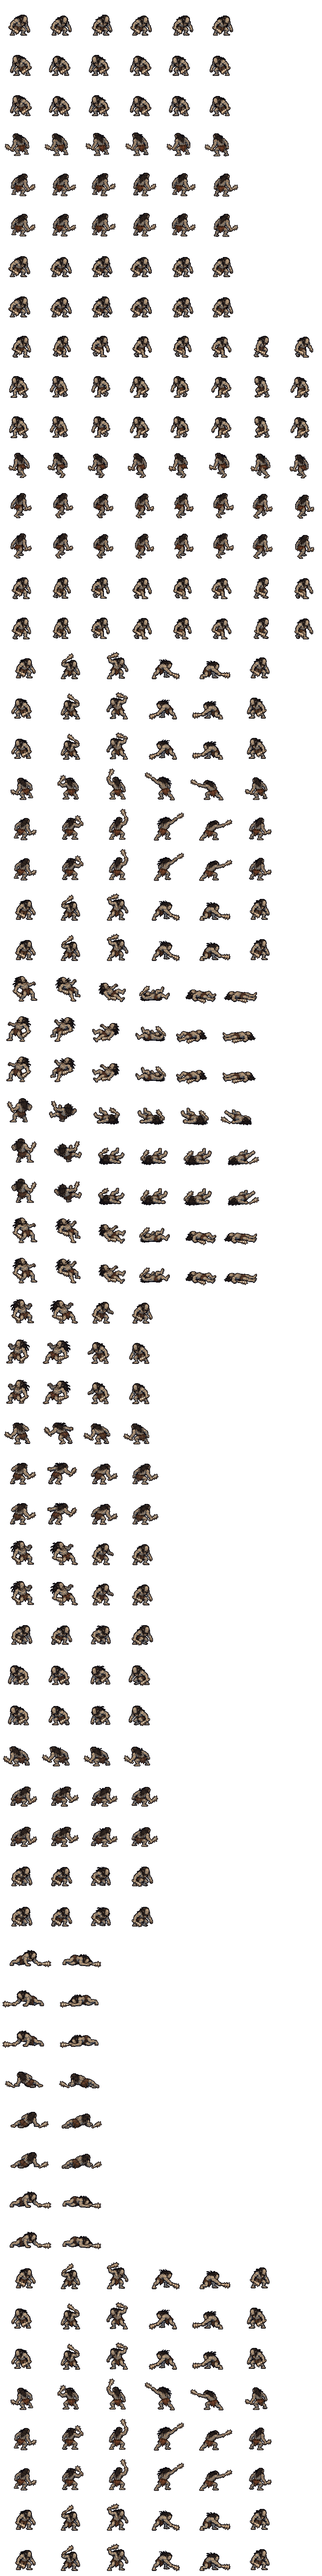
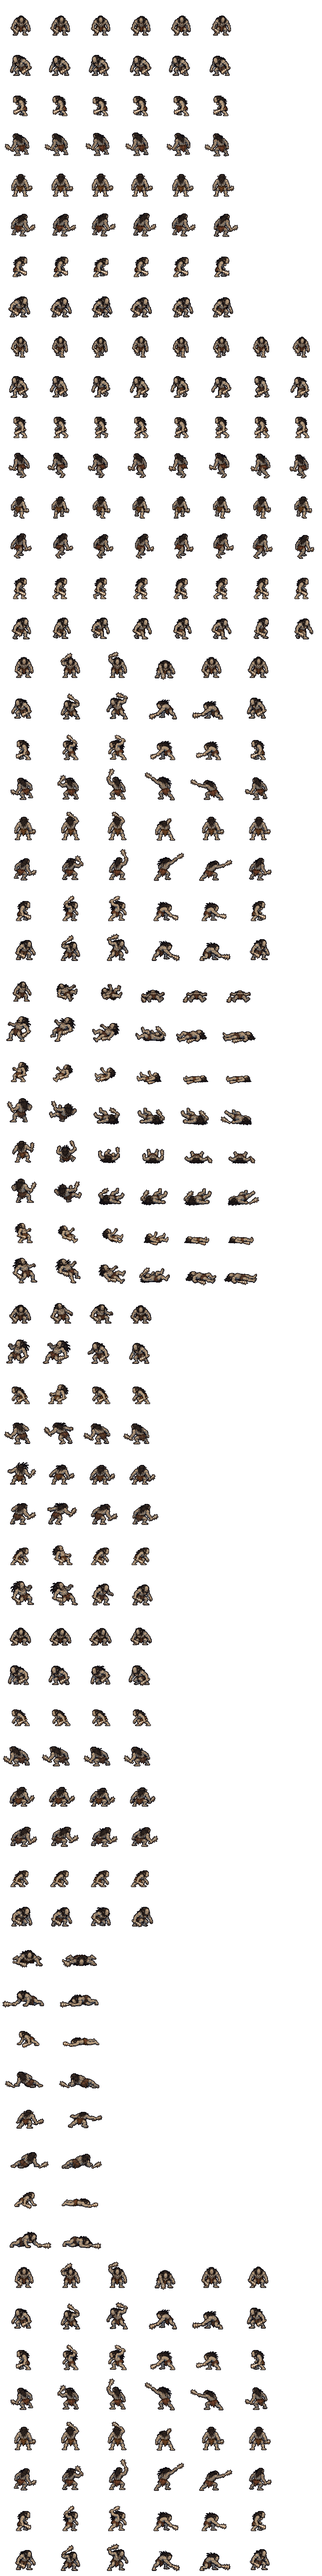
DEEP16 art: the grimlock's five views -- ART-23's front, side and back cut into S, E/W and N of grimlock_p2
tools/grimlock-sheet.py takes ART-23's six pages (HEAD 3 front, HEAD 4 right side, HEAD 5 straight behind; Idle, Walk, Spiked Bone Club,
Lurk, Flinch, Fall, Prone each) and plays each facing its own view by a FACING table (RULED 10-14): S <- HEAD 3, E <- HEAD 4, W <- HEAD 4
mirrored, N <- HEAD 5; SE, SW, NE, NW unchanged (the same drawings, pixel for pixel, against the 10-14 sheet). One scale: the front and the
side meet page 1 by height, the straight-behind view by area as the rear is (Griz 10-14: "grimlock is hunched forward reads taller from rear
angles fine"); idle frame 1 with outline S 48, SW 50, W 49, NW 54, N 54, NE 54, E 49, SE 50, top 56. Each new page toned to page 1 per
channel by the skin. Lines cleared where HEAD 5's Walk clubs touch the next fist and where the front's row name touches its club.

diff --git a/tools/grimlock-sheet.py b/tools/grimlock-sheet.py
@@ -1,4 +1,5 @@
-"""DEEP16 pipeline 2 (generated art): Griz's four GPT sheets of the grimlock -> grimlock_p2 (the Ninja stand-in, grimlock_p1, stays on disk).
+"""DEEP16 pipeline 2 (generated art): Griz's ten GPT sheets of the grimlock, five views -> grimlock_p2 (the Ninja stand-in, grimlock_p1, stays
+on disk).
 
     python tools/grimlock-sheet.py            (writes deep16/art/grimlock_p2.png/.json)
     python tools/grimlock-sheet.py check      (also, in dev/visions/grimlock/: the cut overlays cut-<n>.png, the key's proof key.png, every
@@ -13,9 +14,22 @@ Grimlock -- 2026-10-10"), generated 2026-10-10, sorted into _src/grimlock 2026-1
   2  ART-07_HEAD-1_PAGE-2  Grimlock sprite sheet_ lurk to prone-2.png   Lurk 4, Flinch 4, Fall 6, Prone 2
   3  ART-07_HEAD-2_PAGE-1  Spiked bone club pose correction.png         Idle 6, Walk 8, Spiked Bone Club 6 (the rear windup's hand-switch repaired)
   4  ART-07_HEAD-2_PAGE-2  Grimlock Rear-View Pixel Sprite Sheet.png    Lurk 4, Flinch 4, Fall 6, Prone 2
+and the art desk's ART-23 (no manifest came with its zip; generated and sorted into _src/grimlock/ART-23 2026-10-14, named by page ID):
+  5  ART-23_HEAD-3_PAGE-1.png   Idle 6, Walk 8, Spiked Bone Club 6         (the front attack kept front-facing through impact and recovery)
+  6  ART-23_HEAD-3_PAGE-2.png   Lurk 4, Flinch 4, Fall 6, Prone 2
+  7  ART-23_HEAD-4_PAGE-1.png   Idle 6, Walk 8, Spiked Bone Club 6         (the profile redrawn to show less chest)
+  8  ART-23_HEAD-4_PAGE-2.png   Lurk 4, Flinch 4, Fall 6, Prone 2          (the profile Fall's club-hand discontinuity repaired)
+  9  ART-23_HEAD-5_PAGE-1.png   Idle 6, Walk 8, Spiked Bone Club 6         (the back attack's frame-3 hand-switch repaired)
+  10 ART-23_HEAD-5_PAGE-2.png   Lurk 4, Flinch 4, Fall 6, Prone 2
 HEAD 1 (pages 1, 2) is drawn from the bottom-right, facing the bottom-right (the club in its right hand: the viewer's left); HEAD 2 (pages 3,
-4) from the top-right, seen from behind, facing the top-right (the club in its right hand: the viewer's right). Each page is cut by its own
-row and number labels (tools/sheetrows.py; the numbers' x read off the sheets by a probe); every row's number strip and name is lettering.
+4) from the top-right, seen from behind, facing the top-right (the club in its right hand: the viewer's right); HEAD 3 (pages 5, 6) from the
+front, facing the viewer (the club in its right hand: the viewer's left); HEAD 4 (pages 7, 8) its right side, facing right (the club in the
+near hand, its right); HEAD 5 (pages 9, 10) from straight behind (the club in its right hand: the viewer's right). Every row of ART-23 was
+looked at frame by frame: the club stays in the right hand in every one (the front's Fall 3 holds only its handle across the belly, the head
+hidden; the profile's Fall 4-6 and the back's Fall 5-6 drop it by that hand). Each page is cut by its own row and number labels
+(tools/sheetrows.py; the numbers' x read off the sheets by a probe); every row's number strip and name is lettering. Where a frame touches
+what is not its own, a line is cleared (CUT: HEAD 5's Walk, its spiked heads against the next frame's fist; UNTOUCH: the front's row name
+against its Spiked Bone Club 1), and page 8's Fall band runs to y 750 (its dropped clubs reach past the strip's middle).
 Rows: `idle` <- Idle; `walk` <- Walk; `spikedboneclub` and `attack` <- Spiked Bone Club (battle.js plays a row named for the attack, lower-
 cased, letters only, and falls back to `attack`; its `release` 3 is frame 4, the club's contact -- the front's club down at the foe's feet,
 the rear's arm coming over); `still` <- Lurk (the grimlock starts hidden by its Stone Camouflage: ui.js plays `still` till its first turn or a
@@ -23,12 +37,13 @@ wound); `flinch` <- Flinch; `hurt` <- Fall (the death, its last frame flat on it
 with its own frame); `prone` <- Prone, played in reverse (the pages draw it lying, then pushing up; the engine falls through the row, lies at
 its last frame and gets up through it backwards -- sprites.js S.proneRow, the hobgoblin's way). `spikedboneclub` is a new row name, appended to
 pix.ANIM_ORDER here (the ettin's way).
-Facings (the engine's 0 S, 1 SW, 2 W, 3 NW, 4 N, 5 NE, 6 E, 7 SE): S, E and SE take HEAD 1 as drawn, SW and W HEAD 1 mirrored; N and NE take
-HEAD 2 as drawn, NW HEAD 2 mirrored (the club changes hands in a mirror: the accepted shortcut). Every row has both HEADs, so every row
-plays its own view in every facing.
+Facings (the engine's 0 S, 1 SW, 2 W, 3 NW, 4 N, 5 NE, 6 E, 7 SE), the table FACING, RULED 10-14 (a figure is five drawn views): S <- HEAD 3,
+E <- HEAD 4 and W <- HEAD 4 mirrored, N <- HEAD 5, SE <- HEAD 1 and SW <- HEAD 1 mirrored, NE <- HEAD 2 and NW <- HEAD 2 mirrored (the club
+changes hands in a mirror: the accepted shortcut). Every row is drawn in every view, so every row plays its own view in every facing. (Till
+ART-23 came, 10-14, S and E took HEAD 1 and N HEAD 2; the SE, SW, NE and NW frames are the same drawings as then, pixel for pixel.)
 Key: sheetrows' grey test (blue minus red under 20), not a per-channel test: its darkest stuff is the matted hair, neutral black-brown,
 and the navy and the ground shadows under its feet are blue -- per channel at 30 takes the shadows, at 50 drops the hair; the grey test keeps
-the hair whole and leaves the shadows (check: key.png, the rear idle and the front idle).
+the hair whole and leaves the shadows (check: key.png, the rear idle, the front idle, and HEAD 5's idle, the most hair).
 Scale: one for the creature. The front idle (page 1) stands HEIGHT px, by height; the other pages meet it by area (holes filled), each by the
 poses it shares: page 2 by its Flinch 3-4 (steadied, back on guard) against page 1's idle; page 3 by the median of its standing rows against
 page 1's (idle, walk, and the club's guard, frames 1 and 6: 1.06, 1.02, 1.03 -- its idle's club stands out to the side where the front's
@@ -39,12 +54,22 @@ and 5, is 72-78 px on page 3 against 75 on page 1); so the rear idle stands tall
 50 (REAR_BY = 'height' gives the other answer, one line). The pages that share a pose agree across the views: the Lurk crouch stands 45 px
 from the front and 46 from behind, the steadied Flinch 50 and 49 (measure). HEIGHT: a Medium, stocky, stooped: the front idle a few px under
 the hobgoblin's upright 50 and over the goblin's (Small) 43; standing up it would be about a hero's height (the turnaround's upright Front
-stands 1.3 of the idle on page 1). Each row is placed by its body's thick middle (core_x) on the foot,
-its lowest frame on the floor; the fall by its first frame's feet (it starts standing where it stood; the rear's lying frames lie a little
-lower, toward the camera, as drawn).
-Colour: TONE brings pages 2-4 to page 1 per channel by the skin (the median of the pale, unsaturated pixels -- the bulk of the body, the
-same stuff in every view): page 2's flinch to page 1's idle, pages 3's and 4's to page 1's turnaround Back (the same side). GPT drew the
-later pages warmer and lighter.
+stands 1.3 of the idle on page 1). ART-23's views meet page 1 the same way, each first page by the median of its standing rows against
+page 1's (BY), each second page by its steadied Flinch (STEADY) against its own idle, by area: HEAD 3 (the front) and HEAD 4 (the side) by
+height -- from the front and the side the figure stoops as the bottom-right view does, and by area the side, slimmer, would come out a fifth
+too big (the earth elemental's lesson, 10-08); by height the front stands 1.28 of page 1 (area says 1.23) and the side 1.25 (area 1.05).
+HEAD 5 (straight behind) by area, as the rear is (Griz, 10-14: "grimlock is hunched forward reads taller from rear angles fine"): 1.23 --
+and by height against page 3 it meets the other rear view within a percent, so N and NE stand alike. The idle in every facing, frame 1 with
+its outline: S 48, SW 50, W 49, NW 54, N 54, NE 54, E 49, SE 50 (top 56); the walks stand 49-50 from the front, the front-right and the side,
+52 and 58 from behind. The second pages' crouches are drawn deeper from the front and the side than from the other views: the Lurk stands 42
+from the front and 39 from the side, against 45 from the front-right and 46 from both rear views (the club's bone, the same size in idle and
+lurk on the front's two pages, says page 6 is page 5's size; the cutter can't make GPT's crouch shallower).
+Each row is placed by its body's thick middle (core_x) on the foot, its lowest frame on the floor; the fall by its first frame's feet (it
+starts standing where it stood; the lying frames from behind and from the front lie a little lower, toward the camera, as drawn).
+Colour: TONE brings every page to page 1 per channel by the skin (the median of the pale, unsaturated pixels -- the bulk of the body, the
+same stuff in every view; a view's first page by its idle, its second by its steadied flinch) to the skin TONE_REF names: pages 2, 5 and 6
+to page 1's idle, 3, 4, 9 and 10 to its turnaround Back, 7 and 8 to its turnaround Right (the same side). GPT drew the later pages warmer
+and lighter.
 """
 import os, sys, json, subprocess
 import importlib.util
@@ -63,7 +88,13 @@ G = 'grimlock'
 FILES = {1: os.path.join(G, 'Grimlock Bone Club Sprite Sheet-1.png'),          # ART-07_HEAD-1_PAGE-1
          2: os.path.join(G, 'Grimlock sprite sheet_ lurk to prone-2.png'),     # ART-07_HEAD-1_PAGE-2
          3: os.path.join(G, 'Spiked bone club pose correction.png'),           # ART-07_HEAD-2_PAGE-1
-         4: os.path.join(G, 'Grimlock Rear-View Pixel Sprite Sheet.png')}      # ART-07_HEAD-2_PAGE-2
+         4: os.path.join(G, 'Grimlock Rear-View Pixel Sprite Sheet.png'),      # ART-07_HEAD-2_PAGE-2
+         5: os.path.join(G, 'ART-23', 'ART-23_HEAD-3_PAGE-1.png'),
+         6: os.path.join(G, 'ART-23', 'ART-23_HEAD-3_PAGE-2.png'),
+         7: os.path.join(G, 'ART-23', 'ART-23_HEAD-4_PAGE-1.png'),
+         8: os.path.join(G, 'ART-23', 'ART-23_HEAD-4_PAGE-2.png'),
+         9: os.path.join(G, 'ART-23', 'ART-23_HEAD-5_PAGE-1.png'),
+         10: os.path.join(G, 'ART-23', 'ART-23_HEAD-5_PAGE-2.png')}
 SRC = os.path.join(ROOT, 'deep16', '_src')                 # his sheets live in the main checkout (_src is not in git): a worktree reads them there
 if not os.path.exists(os.path.join(SRC, FILES[1])):
     _common = subprocess.run(['git', '-C', ROOT, 'rev-parse', '--git-common-dir'], capture_output=True, text=True).stdout.strip()
@@ -94,21 +125,61 @@ SHEETS = {
                 ('flinch', (0, None, 1536, None), (491, 515), NUM(4), [259, 543, 834, 1107]),
                 ('fall', (0, None, 1536, None), (735, 770), NUM(6), [194, 414, 630, 873, 1105, 1343]),
                 ('prone', (0, None, 1536, None), (952, 976), NUM(2), [281, 663])]),
+  5: dict(text=[(12, 150, 100, 200), (10, 462, 100, 510), (10, 765, 146, 842)],
+          rows=[('idle', (0, 0, 1536, None), (283, 305), NUM(6), [219, 452, 681, 911, 1146, 1378]),
+                ('walk', (0, None, 1536, None), (590, 612), NUM(8), [200, 369, 553, 715, 892, 1078, 1241, 1419]),
+                ('club', (0, None, 1536, None), (924, 946), NUM(6), [227, 452, 681, 903, 1143, 1385])]),
+  6: dict(text=[(12, 115, 100, 160), (12, 355, 120, 398), (10, 592, 85, 636), (12, 843, 115, 885)],
+          rows=[('lurk', (0, 0, 1536, None), (225, 247), NUM(4), [287, 605, 917, 1234]),
+                ('flinch', (0, None, 1536, None), (479, 501), NUM(4), [298, 605, 920, 1212]),
+                ('fall', (0, None, 1536, None), (723, 745), NUM(6), [178, 414, 631, 886, 1145, 1394]),
+                ('prone', (0, None, 1536, None), (958, 980), NUM(2), [555, 942])]),
+  7: dict(text=[(12, 167, 92, 209), (8, 450, 92, 493), (10, 779, 157, 855)],
+          rows=[('idle', (0, 0, 1536, None), (292, 314), NUM(6), [204, 432, 663, 887, 1116, 1381]),
+                ('walk', (0, None, 1536, None), (605, 626), NUM(8), [177, 354, 530, 704, 880, 1060, 1239, 1415]),
+                ('club', (0, None, 1536, None), (929, 951), NUM(6), [220, 455, 671, 892, 1132, 1379])]),
+  8: dict(text=[(16, 109, 98, 151), (18, 351, 120, 392), (17, 597, 85, 639), (18, 846, 117, 887)],
+          rows=[('lurk', (0, 0, 1536, None), (216, 238), NUM(4), [290, 598, 903, 1212]),
+                ('flinch', (0, None, 1536, None), (472, 494), NUM(4), [291, 598, 877, 1215]),
+                ('fall', (0, None, 1536, 750), (728, 753), NUM(6), [192, 406, 617, 879, 1106, 1376]),   # (its dropped clubs reach
+                ('prone', (0, None, 1536, None), (959, 980), NUM(2), [296, 633])]),                     # y 743, past the strip's middle)
+  9: dict(text=[(14, 134, 97, 182), (9, 449, 103, 497), (9, 757, 146, 841)],
+          rows=[('idle', (0, 0, 1536, None), (279, 303), NUM(6), [223, 449, 677, 904, 1136, 1377]),
+                ('walk', (0, None, 1536, None), (589, 613), NUM(8), [190, 368, 533, 701, 886, 1055, 1234, 1408]),
+                ('club', (0, None, 1536, None), (934, 957), NUM(6), [232, 465, 697, 926, 1143, 1380])]),
+  10: dict(text=[(12, 109, 93, 151), (12, 359, 117, 401), (12, 614, 85, 656), (12, 858, 106, 899)],
+           rows=[('lurk', (0, 0, 1536, None), (228, 249), NUM(4), [244, 533, 825, 1126]),
+                 ('flinch', (0, None, 1536, None), (492, 513), NUM(4), [244, 542, 831, 1128]),
+                 ('fall', (0, None, 1536, None), (745, 772), NUM(6), [207, 431, 637, 875, 1111, 1374]),
+                 ('prone', (0, None, 1536, None), (965, 990), NUM(2), [266, 619])]),
 }
 # loose bits by hand: page -> row -> [(box on the page: every blob wholly inside it, the label it belongs to)] -- the rear Prone 1's club lies
 # on the floor beyond its hand, not touching it, about as near Prone 2's number as its own (the cut gave it right; this keeps it so). The
 # other dropped clubs (the Falls' 5 and 6) lie by their own numbers; the front Prone 1's touches its hand
 FIX = {4: {'prone': [((405, 875, 500, 940), '1')]}}
-HEAD1, HEAD2 = (1, 2), (3, 4)                 # the pages of each view
+# lines cleared (2 px) where a frame touches something not its own: page -> row -> [polyline] -- HEAD 5's Walk (page 9) holds the club out
+# to its right, and four of its spiked heads touch the next frame's left fist, outline to outline (1-2, 2-3, 3-4, 5-6); each line runs
+# through the dark between spike and knuckle (the 2-3 one round the spike's tip)
+CUT = {9: {'walk': [((290, 477), (290, 490)), ((454, 484), (463, 484), (463, 492)), ((634, 475), (634, 485)), ((983, 479), (983, 489))]}}
+# lines cleared before the lettering is dropped: page -> [polyline] -- HEAD 3's Spiked Bone Club 1 (page 5): the row name's "b" touches
+# the club's butt by its drop shadow; cleared, "lub" lies wholly in its text box again and goes with the rest of the name
+UNTOUCH = {5: [((135, 812), (135, 838))]}
+HEADS = {1: (1, 2), 2: (3, 4), 3: (5, 6), 4: (7, 8), 5: (9, 10)}   # the pages of each view
 ROWS = {'idle': 'idle', 'walk': 'walk', 'attack': 'club', 'spikedboneclub': 'club', 'still': 'lurk', 'flinch': 'flinch', 'hurt': 'fall',
-        'prone': 'prone'}                     # engine row <- the pages' row (each in both views)
+        'prone': 'prone'}                     # engine row <- the pages' row (each in every view)
 PAGE = {'idle': 0, 'walk': 0, 'club': 0, 'lurk': 1, 'flinch': 1, 'fall': 1, 'prone': 1}   # which page of its HEAD a row is on
-VIEW = {0: (1, False), 6: (1, False), 7: (1, False), 1: (1, True), 2: (1, True), 4: (2, False), 5: (2, False), 3: (2, True)}  # facing -> (HEAD, mirrored)
+# facing (deep16/js/sprites.js S.FACINGS) -> (HEAD, mirrored?). RULED 10-14, five drawn views: S <- HEAD 3, E <- HEAD 4 (W mirrored),
+# N <- HEAD 5, SE <- HEAD 1 (SW mirrored), NE <- HEAD 2 (NW mirrored)
+FACING = {0: (3, False), 1: (1, True), 2: (4, True), 3: (2, True), 4: (5, False), 5: (2, False), 6: (4, False), 7: (1, False)}
+STEADY = {2: (2, 3), 4: (2, 3), 6: (0, 3), 8: (2, 3), 10: (2, 3)}  # a HEAD's second page: its Flinch frames back on guard (0-based)
 NEW = ['spikedboneclub']                      # this cutter's own row (named here, not in pixelate.py)
 FPS = {'idle': 6, 'walk': 10, 'attack': 10, 'spikedboneclub': 10, 'still': 3, 'flinch': 8, 'hurt': 8, 'prone': 8}
 RELEASE = {'attack': 3, 'spikedboneclub': 3}  # frame 4: the club lands (battle.js times a melee row's hit by its release, 10-08)
 HEIGHT = 47           # the front idle (page 1), standing px before the outline
 REAR_BY = 'area'      # how page 3 meets page 1 ('height' stands the rear idle as tall as the front's)
+BY = {2: REAR_BY, 3: 'height', 4: 'height', 5: 'area'}    # how each view's first page meets page 1 (its standing rows)
+STAND = (('idle', None), ('walk', None), ('club', (0, 5)))  # the standing rows: idle, walk, the club's guard (frames 1 and 6)
+TONE_REF = {1: 'idle', 2: 'back', 3: 'idle', 4: 'right', 5: 'back'}   # the skin each view's pages meet: page 1's idle or its turnaround panel
 FH, AY = 96, 84
 
 
@@ -120,14 +191,14 @@ def body(im):
 
 
 def bands(L):
-    """each row's band: the middle of the strip above to the middle of its own (the first row's top as given)"""
+    """each row's band: the middle of the strip above to the middle of its own (the first row's top as given; a bottom given is kept)"""
     rows, prev = [], None
     for r in SHEETS[L]['rows']:
         (x0, y0, x1, y1), (l0, l1) = r[1], r[2]
         if r[0] != 'turn':
             if prev is not None:
                 y0 = prev
-            y1 = (l0 + l1) // 2
+            y1 = y1 if y1 is not None else (l0 + l1) // 2
             prev = y1
         rows.append((r[0], (x0, y0, x1, y1)) + tuple(r[2:]))
     return rows
@@ -137,15 +208,24 @@ def cut(L, check=False):
     s = SHEETS[L]
     rows = bands(L)
     hand = {(r[1][0], r[1][1]): r[4] for r in rows}
-    orig = SR.label_xs
+    orig, orig_mask = SR.label_xs, SR.figure_mask
     spec = dict(text=s['text'] + [(r[1][0], r[2][0] - 3, r[1][2], r[2][1] + 4) for r in rows],   # (a number's drop shadow runs past its strip)
                 rows=[(r[0], r[1], (r[1][1], r[2][1])) + tuple(r[3:4]) for r in rows])
     SR.label_xs = lambda a, x0, x1, y0, y1: hand.get((x0, y0)) or orig(a, x0, x1, y0, y1)
+    def untouched(a, *args, **kw):                   # the page's UNTOUCH lines cleared from the mask before the lettering is dropped
+        m = orig_mask(a, *args, **kw)
+        if L in UNTOUCH:
+            wall = Image.new('1', (m.shape[1], m.shape[0]), 0)
+            for line in UNTOUCH[L]:
+                ImageDraw.Draw(wall).line(line, fill=1, width=2)
+            m &= ~np.asarray(wall, dtype=bool)
+        return m
+    SR.figure_mask = untouched
     over = [] if check else None
     try:
-        out = SR.cut_sheet(os.path.join(SRC, FILES[L]), spec, fix=FIX.get(L), overlay=over, tag='page %d' % L)
+        out = SR.cut_sheet(os.path.join(SRC, FILES[L]), spec, fix=FIX.get(L), cuts=CUT.get(L), overlay=over, tag='page %d' % L)
     finally:
-        SR.label_xs = orig
+        SR.label_xs, SR.figure_mask = orig, orig_mask
     if check:
         d = os.path.join(ROOT, 'dev', 'visions', G); os.makedirs(d, exist_ok=True)
         over[0].save(os.path.join(d, 'cut-%d.png' % L))
@@ -157,21 +237,26 @@ def med(frs, i=0, idx=None):
 
 
 def scales(c):
-    """K per page (page px a game px)"""
+    """K per page (page px a game px): page 1 by its idle's height; each other view's first page against page 1 by its standing rows
+    (BY), each second page by its steadied flinch against its own first page's idle, by area"""
     k1 = med(c[1]['idle'], 1) / HEIGHT
-    r2 = med(c[2]['flinch'], 0, (2, 3)) / med(c[1]['idle'])                     # the steadied flinch against the idle, by area
-    by_area = {row: (med(c[3][row], 0, idx) / med(c[1][row], 0, idx)) for row, idx in (('idle', None), ('walk', None), ('club', (0, 5)))}
-    by_height = {row: (med(c[3][row], 1, idx) / med(c[1][row], 1, idx)) for row, idx in (('idle', None), ('walk', None), ('club', (0, 5)))}
-    r3 = float(np.median(list((by_area if REAR_BY == 'area' else by_height).values())))
-    r4 = med(c[4]['flinch'], 0, (2, 3)) / med(c[3]['idle'])
-    K = {1: k1, 2: k1 * r2, 3: k1 * r3, 4: k1 * r3 * r4}
-    print('  K: page 1 %.3f (its idle %.0f px high on the page, %d in the game); page 2 %.3f of it (its flinch 3-4 by area); page 3 %.3f '
-          '(by %s: area idle %.3f walk %.3f guard %.3f, height idle %.3f walk %.3f guard %.3f); page 4 %.3f of page 3 (its flinch 3-4 by area)'
-          % (k1, med(c[1]['idle'], 1), HEIGHT, r2, r3, REAR_BY, by_area['idle'], by_area['walk'], by_area['club'], by_height['idle'],
-             by_height['walk'], by_height['club'], r4))
-    for L, row, idx in ((1, 'idle', None), (1, 'walk', None), (2, 'lurk', None), (2, 'flinch', (2, 3)), (3, 'idle', None), (3, 'walk', None),
-                        (4, 'lurk', None), (4, 'flinch', (2, 3))):
-        print('    page %d %-6s stands %.1f px in the game' % (L, row + ('' if idx is None else ' 3-4'), med(c[L][row], 1, idx) / K[L]))
+    K, said = {1: k1}, ['page 1 %.3f (its idle %.0f px high on the page, %d in the game)' % (k1, med(c[1]['idle'], 1), HEIGHT)]
+    for h, (L1, L2) in sorted(HEADS.items()):
+        if h > 1:
+            by = {m: {row: med(c[L1][row], i, idx) / med(c[1][row], i, idx) for row, idx in STAND} for m, i in (('area', 0), ('height', 1))}
+            r = float(np.median(list(by[BY[h]].values())))
+            K[L1] = k1 * r
+            said.append('page %d %.3f of page 1 (HEAD %d by %s: area idle %.3f walk %.3f guard %.3f, height idle %.3f walk %.3f guard %.3f)'
+                        % (L1, r, h, BY[h], by['area']['idle'], by['area']['walk'], by['area']['club'], by['height']['idle'],
+                           by['height']['walk'], by['height']['club']))
+        r = med(c[L2]['flinch'], 0, STEADY[L2]) / med(c[L1]['idle'])          # the steadied flinch against its view's idle, by area
+        K[L2] = K[L1] * r
+        said.append('page %d %.3f of page %d (its flinch %s by area)' % (L2, r, L1, '-'.join(str(i + 1) for i in STEADY[L2])))
+    print('  K: ' + '; '.join(said))
+    for h, (L1, L2) in sorted(HEADS.items()):
+        for L, row, idx in ((L1, 'idle', None), (L1, 'walk', None), (L2, 'lurk', None), (L2, 'flinch', STEADY[L2])):
+            print('    HEAD %d page %-2d %-6s stands %.1f px in the game' % (h, L, row + ('' if idx is None else ' ' + '-'.join(str(i + 1) for i in idx)),
+                                                                         med(c[L][row], 1, idx) / K[L]))
     return K
 
 
@@ -184,10 +269,17 @@ def skin(L, c, row, idx):
 
 
 def tones(c):
-    ref_front, ref_back = skin(1, c, 'idle', range(6)), skin(1, c, 'turn', [2])
-    T = {2: tuple(ref_front / skin(2, c, 'flinch', (2, 3))), 3: tuple(ref_back / skin(3, c, 'idle', range(6))),
-         4: tuple(ref_back / skin(4, c, 'flinch', (2, 3)))}
+    """each page's skin to page 1's per channel: a view's first page by its idle, its second by its steadied flinch, each to the skin
+    TONE_REF names (page 1's idle, or the turnaround panel of the same side)"""
+    ref = {'idle': skin(1, c, 'idle', range(6))}
+    ref.update({nm: skin(1, c, 'turn', [TURN.index(nm)]) for nm in TURN})
+    T = {}
+    for h, (L1, L2) in sorted(HEADS.items()):
+        for L in (L1, L2):
+            if L != 1:
+                T[L] = tuple(ref[TONE_REF[h]] / (skin(L, c, 'idle', range(6)) if L == L1 else skin(L, c, 'flinch', STEADY[L])))
     print('  TONE (per channel, by the skin): ' + '; '.join('page %d %s' % (L, ' '.join('%.3f' % v for v in t)) for L, t in T.items()))
+    print('  the skins: ' + '; '.join('%s %s' % (nm, ' '.join('%.0f' % v for v in s)) for nm, s in ref.items()))
     return T
 
 
@@ -252,8 +344,8 @@ def main(mode):
     for eng, row in ROWS.items():
         per = []
         for f in range(8):
-            head, mirrored = VIEW[f]
-            fs = frames_of((HEAD1, HEAD2)[head - 1][PAGE[row]], row)
+            head, mirrored = FACING[f]
+            fs = frames_of(HEADS[head][PAGE[row]], row)
             if eng == 'prone':
                 fs = fs[::-1]                        # pushing up, then lying: it lies at its last frame and gets up by playing it backwards
             per.append((fs, mirrored))
@@ -293,7 +385,8 @@ def main(mode):
     for row, k in RELEASE.items():
         meta['anims'][row]['release'] = k
     meta['source'] = ('generated by Griz (2026-10-10: the art desk\'s ART-07, four GPT pages -- HEAD 1 from the bottom-right, HEAD 2 from '
-                      'behind, two pages each), cut by tools/grimlock-sheet.py')
+                      'behind; 2026-10-14: ART-23, six more -- HEAD 3 from the front, HEAD 4 the right side, HEAD 5 from straight behind; '
+                      'two pages each), cut by tools/grimlock-sheet.py')
     json.dump(meta, open(meta_p, 'w'), indent=1)
     h = lambda fr: np.where(fr[..., 3].any(axis=1))[0]
     print('  idle opaque height with outline, frame 1 by facing: ' + ', '.join('%s %d' % (n, h(frames['idle'][f][0])[-1] - h(frames['idle'][f][0])[0] + 1)
@@ -350,10 +443,10 @@ def lineup(path):
 
 
 def key(path):
-    """the key's proof: the rear idle 1 (the most hair) and the front idle 1 (its foot shadow) -- as drawn, then what the grey test keeps,
-    per channel at 30 and at 50 (magenta: dropped)"""
+    """the key's proof: the rear idle 1 (the most hair), the front idle 1 (its foot shadow), and HEAD 5's idle 1 (the hair from straight
+    behind) -- as drawn, then what the grey test keeps, per channel at 30 and at 50 (magenta: dropped)"""
     rows = []
-    for L, (x0, y0, x1, y1) in ((3, (140, 85, 370, 290)), (1, (150, 305, 350, 492))):
+    for L, (x0, y0, x1, y1) in ((3, (140, 85, 370, 290)), (1, (150, 305, 350, 492)), (9, (125, 35, 360, 285))):
         a = np.asarray(Image.open(os.path.join(SRC, FILES[L])).convert('RGB')).astype(np.int32)
         panels = [a[y0:y1, x0:x1]]
         for kw in (dict(), dict(chan=30), dict(chan=50)):
